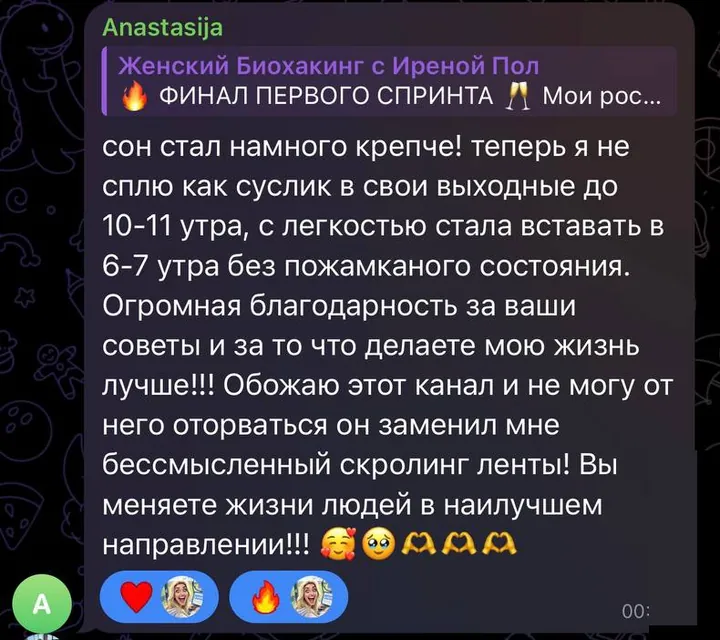
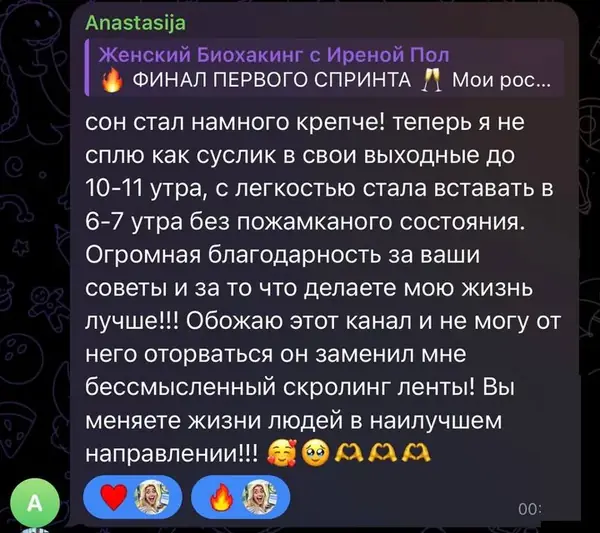
Landing: reviews screenshots recompressed to 600px q75 (-103 KB), dimensions updated

diff --git a/index.html b/index.html
@@ -392,27 +392,27 @@ if (window.YM_COUNTER) {
 <div class="shots" id="shots" role="region" aria-label="Результаты и отзывы учениц, листаются вбок" tabindex="0">
 <figure class="shot dp"><div class="dp__pair"><div class="dp__ph"><img src="assets/img/dp-1-do.webp" width="600" height="800" alt="До, сбоку" loading="lazy" decoding="async"><span class="dp__lb">До</span></div><div class="dp__ph"><img src="assets/img/dp-1-posle.webp" width="600" height="800" alt="После, сбоку" loading="lazy" decoding="async"><span class="dp__lb">После</span></div></div><span class="dp__term">за 8 месяцев</span><figcaption class="dp__q">«Мне не стыдно показывать это. Я одна из кучи женщин, которые прячутся за проблемами, но я решила, нашла в себе силы и делаю!»</figcaption></figure>
 <figure class="shot dp"><div class="dp__pair"><div class="dp__ph"><img src="assets/img/dp-9-do.webp" width="600" height="800" alt="До, сбоку" loading="lazy" decoding="async"><span class="dp__lb">До</span></div><div class="dp__ph"><img src="assets/img/dp-9-posle.webp" width="600" height="800" alt="После, сбоку" loading="lazy" decoding="async"><span class="dp__lb">После</span></div></div><span class="dp__term">за 4 дня</span><figcaption class="dp__q">«Даже не неделя, 4 дня»</figcaption></figure>
-<figure class="shot"><figcaption class="shot__tag">Сон</figcaption><p class="shot__q">«С легкостью стала вставать в 6-7 утра без пожамканого состояния»</p><img src="assets/img/otzyv-23.webp" width="720" height="640" alt="Отзыв участницы: Сон крепче, встаёт в 6-7 утра без разбитости" loading="lazy" decoding="async"></figure>
+<figure class="shot"><figcaption class="shot__tag">Сон</figcaption><p class="shot__q">«С легкостью стала вставать в 6-7 утра без пожамканого состояния»</p><img src="assets/img/otzyv-23.webp" width="600" height="533" alt="Отзыв участницы: Сон крепче, встаёт в 6-7 утра без разбитости" loading="lazy" decoding="async"></figure>
 <figure class="shot dp"><div class="dp__pair"><div class="dp__ph"><img src="assets/img/dp-2-do.webp" width="600" height="800" alt="До, спереди" loading="lazy" decoding="async"><span class="dp__lb">До</span></div><div class="dp__ph"><img src="assets/img/dp-2-posle.webp" width="600" height="800" alt="После, спереди" loading="lazy" decoding="async"><span class="dp__lb">После</span></div></div><span class="dp__term">за 2 месяца</span><figcaption class="dp__q">«Результат бомба, в эти джинсы я последний раз влезала около двух лет назад»</figcaption></figure>
 <figure class="shot dp"><div class="dp__pair"><div class="dp__ph"><img src="assets/img/dp-10-do.webp" width="600" height="800" alt="До, сбоку" loading="lazy" decoding="async"><span class="dp__lb">До</span></div><div class="dp__ph"><img src="assets/img/dp-10-posle.webp" width="600" height="800" alt="После, сбоку" loading="lazy" decoding="async"><span class="dp__lb">После</span></div></div><span class="dp__term">за 5 дней</span><figcaption class="dp__q">«Врач посоветовал качать пресс, и стало не просто хуже, стало ужасно. И вот я пятый день подряд без пропуска делаю только первую тренировку»</figcaption></figure>
-<figure class="shot"><figcaption class="shot__tag">Отношения</figcaption><p class="shot__q">«Отдельная благодарность за подарок &quot;игру в долгую&quot;. Все слушаю взахлёб»</p><img src="assets/img/otzyv-69.webp" width="720" height="528" alt="Отзыв участницы: Курс «Игра в долгую»: практичные советы для долгих отношений" loading="lazy" decoding="async"></figure>
+<figure class="shot"><figcaption class="shot__tag">Отношения</figcaption><p class="shot__q">«Отдельная благодарность за подарок &quot;игру в долгую&quot;. Все слушаю взахлёб»</p><img src="assets/img/otzyv-69.webp" width="600" height="440" alt="Отзыв участницы: Курс «Игра в долгую»: практичные советы для долгих отношений" loading="lazy" decoding="async"></figure>
 <figure class="shot dp"><div class="dp__pair"><div class="dp__ph"><img src="assets/img/dp-3-do.webp" width="600" height="800" alt="До, спереди" loading="lazy" decoding="async"><span class="dp__lb">До</span></div><div class="dp__ph"><img src="assets/img/dp-3-posle.webp" width="600" height="800" alt="После, спереди" loading="lazy" decoding="async"><span class="dp__lb">После</span></div></div><span class="dp__term">за 1 месяц</span><figcaption class="dp__q">«У меня было кесарево после вторых родов. Всё ушло, я такой красоткой себя ощущаю»</figcaption></figure>
 <figure class="shot dp"><div class="dp__pair"><div class="dp__ph"><img src="assets/img/dp-11-do.webp" width="600" height="800" alt="До, спереди" loading="lazy" decoding="async"><span class="dp__lb">До</span></div><div class="dp__ph"><img src="assets/img/dp-11-posle.webp" width="600" height="800" alt="После, спереди" loading="lazy" decoding="async"><span class="dp__lb">После</span></div></div><span class="dp__term">за 6 дней</span><figcaption class="dp__q">6 дней подряд тренировка по утрам</figcaption></figure>
-<figure class="shot"><figcaption class="shot__tag">Сон</figcaption><p class="shot__q">«Моментально засыпаю»</p><img src="assets/img/otzyv-64.webp" width="720" height="433" alt="Отзыв участницы: С медитацией засыпает за пару минут" loading="lazy" decoding="async"></figure>
+<figure class="shot"><figcaption class="shot__tag">Сон</figcaption><p class="shot__q">«Моментально засыпаю»</p><img src="assets/img/otzyv-64.webp" width="600" height="361" alt="Отзыв участницы: С медитацией засыпает за пару минут" loading="lazy" decoding="async"></figure>
 <figure class="shot dp"><div class="dp__pair"><div class="dp__ph"><img src="assets/img/dp-4-do.webp" width="600" height="800" alt="До, сбоку" loading="lazy" decoding="async"><span class="dp__lb">До</span></div><div class="dp__ph"><img src="assets/img/dp-4-posle.webp" width="600" height="800" alt="После, сбоку" loading="lazy" decoding="async"><span class="dp__lb">После</span></div></div><span class="dp__term">за 3 недели</span><figcaption class="dp__q">«Почти 10 месяцев прошло после третьих родов, и мой животик красивый благодаря Вашим тренировкам»</figcaption></figure>
 <figure class="shot dp"><div class="dp__pair"><div class="dp__ph"><img src="assets/img/dp-8-do.webp" width="600" height="800" alt="До, сбоку" loading="lazy" decoding="async"><span class="dp__lb">До</span></div><div class="dp__ph"><img src="assets/img/dp-8-posle.webp" width="600" height="800" alt="После, сбоку" loading="lazy" decoding="async"><span class="dp__lb">После</span></div></div><span class="dp__term">за 1 неделю</span><figcaption class="dp__q">«Животик не так выпирает сейчас»</figcaption></figure>
-<figure class="shot"><figcaption class="shot__tag">ИИ-подружка</figcaption><p class="shot__q">«Она мне все проанализировала. По составам по бренду»</p><img src="assets/img/otzyv-52.webp" width="720" height="776" alt="Отзыв участницы: Подружка разобрала омегу по составам и брендам" loading="lazy" decoding="async"></figure>
+<figure class="shot"><figcaption class="shot__tag">ИИ-подружка</figcaption><p class="shot__q">«Она мне все проанализировала. По составам по бренду»</p><img src="assets/img/otzyv-52.webp" width="600" height="647" alt="Отзыв участницы: Подружка разобрала омегу по составам и брендам" loading="lazy" decoding="async"></figure>
 <figure class="shot dp"><div class="dp__pair"><div class="dp__ph"><img src="assets/img/dp-5-do.webp" width="600" height="800" alt="До, сбоку" loading="lazy" decoding="async"><span class="dp__lb">До</span></div><div class="dp__ph"><img src="assets/img/dp-5-posle.webp" width="600" height="800" alt="После, сбоку" loading="lazy" decoding="async"><span class="dp__lb">После</span></div></div><span class="dp__term">за 3 недели</span><figcaption class="dp__q">«Разница в весе всего 4 кг, но живот невероятно сильно ушёл»</figcaption></figure>
 <figure class="shot dp"><div class="dp__pair"><div class="dp__ph"><img src="assets/img/dp-7-do.webp" width="600" height="800" alt="До, спереди" loading="lazy" decoding="async"><span class="dp__lb">До</span></div><div class="dp__ph"><img src="assets/img/dp-7-posle.webp" width="600" height="800" alt="После, спереди" loading="lazy" decoding="async"><span class="dp__lb">После</span></div></div><span class="dp__term">за 12 дней</span><figcaption class="dp__q">«Животик не втянут»</figcaption></figure>
-<figure class="shot"><figcaption class="shot__tag">Медитации</figcaption><p class="shot__q">«Дети обожают детские медитации, они шикарные»</p><img src="assets/img/otzyv-70.webp" width="720" height="610" alt="Отзыв участницы: Засыпает под медитации, дети просят детские" loading="lazy" decoding="async"></figure>
+<figure class="shot"><figcaption class="shot__tag">Медитации</figcaption><p class="shot__q">«Дети обожают детские медитации, они шикарные»</p><img src="assets/img/otzyv-70.webp" width="600" height="508" alt="Отзыв участницы: Засыпает под медитации, дети просят детские" loading="lazy" decoding="async"></figure>
 <figure class="shot dp"><div class="dp__pair"><div class="dp__ph"><img src="assets/img/dp-6-do.webp" width="600" height="800" alt="До, спереди" loading="lazy" decoding="async"><span class="dp__lb">До</span></div><div class="dp__ph"><img src="assets/img/dp-6-posle.webp" width="600" height="800" alt="После, спереди" loading="lazy" decoding="async"><span class="dp__lb">После</span></div></div><span class="dp__term">за 2,5 недели</span><figcaption class="dp__q">Влезла в лыжные штаны</figcaption></figure>
 <figure class="shot dp"><div class="dp__pair"><div class="dp__ph"><img src="assets/img/dp-12-do.webp" width="600" height="800" alt="До, сбоку" loading="lazy" decoding="async"><span class="dp__lb">До</span></div><div class="dp__ph"><img src="assets/img/dp-12-posle.webp" width="600" height="800" alt="После, сбоку" loading="lazy" decoding="async"><span class="dp__lb">После</span></div></div><span class="dp__term">за 1,5 недели</span><figcaption class="dp__q">«Твой продукт вытащил меня из очень депрессивного состояния, я чувствую себя лучше, мне очень интересно каждый день узнавать новое и так приятно любоваться на своё красивое тело»</figcaption></figure>
-<figure class="shot"><figcaption class="shot__tag">Тело</figcaption><p class="shot__q">«За 2 недели я заметила, что живот реально стал меньше»</p><img src="assets/img/otzyv-63.webp" width="720" height="641" alt="Отзыв участницы: За 2 недели живот стал заметно меньше" loading="lazy" decoding="async"></figure>
+<figure class="shot"><figcaption class="shot__tag">Тело</figcaption><p class="shot__q">«За 2 недели я заметила, что живот реально стал меньше»</p><img src="assets/img/otzyv-63.webp" width="600" height="534" alt="Отзыв участницы: За 2 недели живот стал заметно меньше" loading="lazy" decoding="async"></figure>
 <figure class="shot dp"><div class="dp__pair"><div class="dp__ph"><img src="assets/img/dp-13-do.webp" width="600" height="800" alt="До, спереди" loading="lazy" decoding="async"><span class="dp__lb">До</span></div><div class="dp__ph"><img src="assets/img/dp-13-posle.webp" width="600" height="800" alt="После, спереди" loading="lazy" decoding="async"><span class="dp__lb">После</span></div></div></figure>
 <figure class="shot dp"><div class="dp__pair"><div class="dp__ph"><img src="assets/img/dp-14-do.webp" width="600" height="800" alt="До, ягодицы сбоку" loading="lazy" decoding="async"><span class="dp__lb">До</span></div><div class="dp__ph"><img src="assets/img/dp-14-posle.webp" width="600" height="800" alt="После, ягодицы сбоку" loading="lazy" decoding="async"><span class="dp__lb">После</span></div></div></figure>
-<figure class="shot"><figcaption class="shot__tag">Тело</figcaption><p class="shot__q">«Мне еще никогда так не хотелось заниматься спортом, тем более приседаниями!»</p><img src="assets/img/otzyv-45.webp" width="720" height="682" alt="Отзыв участницы: В 42 года впервые полюбила приседания" loading="lazy" decoding="async"></figure>
+<figure class="shot"><figcaption class="shot__tag">Тело</figcaption><p class="shot__q">«Мне еще никогда так не хотелось заниматься спортом, тем более приседаниями!»</p><img src="assets/img/otzyv-45.webp" width="600" height="568" alt="Отзыв участницы: В 42 года впервые полюбила приседания" loading="lazy" decoding="async"></figure>
 <figure class="shot dp"><div class="dp__pair"><div class="dp__ph"><img src="assets/img/dp-15-do.webp" width="600" height="800" alt="До, сбоку" loading="lazy" decoding="async"><span class="dp__lb">До</span></div><div class="dp__ph"><img src="assets/img/dp-15-posle.webp" width="600" height="800" alt="После, сбоку" loading="lazy" decoding="async"><span class="dp__lb">После</span></div></div><figcaption class="dp__q">«Самомассаж животика топ, особенно после кесарева»</figcaption></figure>
-<figure class="shot"><figcaption class="shot__tag">Тренировки</figcaption><p class="shot__q">«Впервые так сильно прочувствовала ягодицы в мостике!»</p><img src="assets/img/otzyv-36.webp" width="720" height="234" alt="Отзыв участницы: Впервые прочувствовала ягодицы в мостике" loading="lazy" decoding="async"></figure>
+<figure class="shot"><figcaption class="shot__tag">Тренировки</figcaption><p class="shot__q">«Впервые так сильно прочувствовала ягодицы в мостике!»</p><img src="assets/img/otzyv-36.webp" width="600" height="195" alt="Отзыв участницы: Впервые прочувствовала ягодицы в мостике" loading="lazy" decoding="async"></figure>
 <figure class="shot dp"><div class="dp__pair"><div class="dp__ph"><img src="assets/img/dp-16-do.webp" width="600" height="800" alt="До, в полный рост" loading="lazy" decoding="async"><span class="dp__lb">До</span></div><div class="dp__ph"><img src="assets/img/dp-16-posle.webp" width="600" height="800" alt="После, в полный рост" loading="lazy" decoding="async"><span class="dp__lb">После</span></div></div><figcaption class="dp__q">«Мама троих. Признаюсь честно, усилий прикладывала мало, выполняла совсем не стабильно»</figcaption></figure>
 </div>
 <div class="wrap"><p class="rev-note">Результаты у всех разные</p></div>
